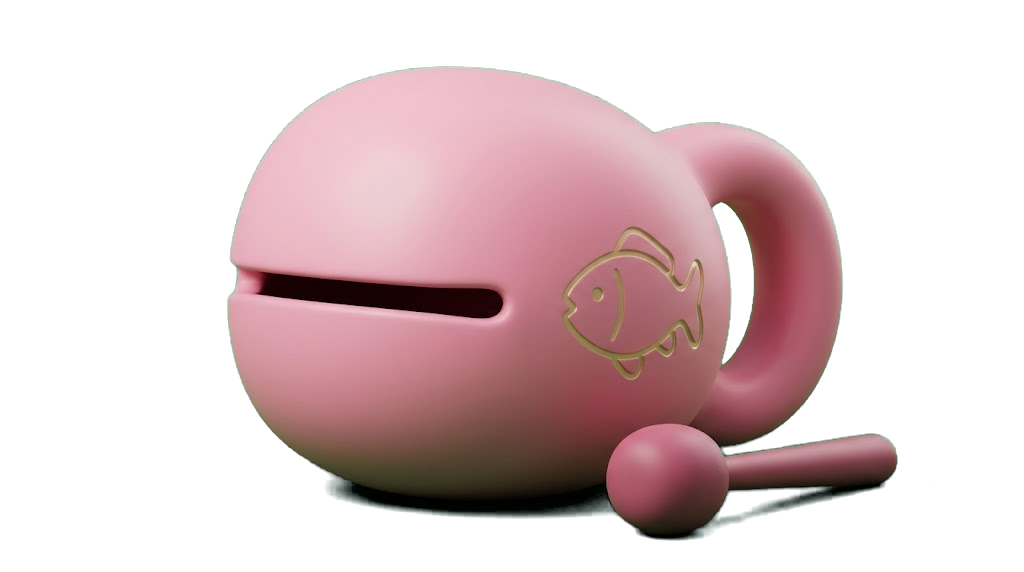
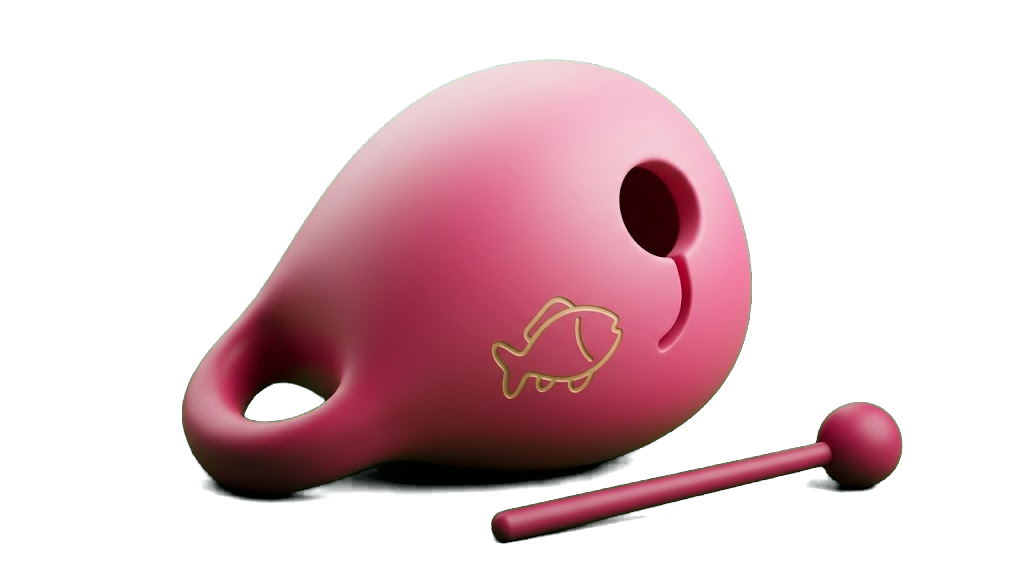
목탁을 사진처럼 다시 · 배경에 민트를 되돌린다
형: 「그런 까라로 더 귀엽고 찐한 핑크 만들어서 넣으라고」(동그란 구멍
     사진)  「시안에서 봤듯 민트도 섞어라 배경에」

■ 목탁
사진의 생김새로 다시 구웠다 — 통통한 물방울 몸, **동그란 소리 구멍**과
쉼표처럼 흘러내리는 짧은 홈, 왼쪽 아래에서 아래로 말리는 두툼한 고리,
찐한 장미 분홍(#E0609A). 긴 틈과 오른쪽 귀는 목탁이 아니었다.

■ 배경
한지 한 겹으로 덮고 민트를 껐더니, 형이 좋다던 시안의 바탕
(왼쪽 위 분홍 · 오른쪽 아래 민트가 번지는 흰 종이)이 사라졌다.
한지는 색이 아니라 **활자**였다 — 세로 話頭 · 큰 세리프 · 자간 벌린
한자 · 얇은 선 하나. 그것만 남기고 바탕은 되돌린다.
앱이 두 얼굴일 까닭도 같이 없어졌다.

diff --git a/src/app/hip.css b/src/app/hip.css
@@ -2112,25 +2112,17 @@ html[data-theme="light"] {
    이 규칙들은 전부 .hip-hanji 안에서만 산다. 공덕·내 도량·절로는
    손대지 않는다. */
 @media (max-width: 767px) {
+  /* 형: 「시안에서 봤듯 민트도 섞어라 배경에」.
+     한지 한 겹으로 덮고 민트를 껐더니, 형이 좋다던 그 시안의 배경
+     (왼쪽 위 분홍 · 오른쪽 아래 민트가 번지는 흰 종이)이 사라졌다.
+     **바탕은 다른 판과 같이 간다.** 한지는 색이 아니라 **활자**였다 —
+     세로 話頭 · 큰 세리프 · 자간 벌린 한자 · 얇은 선 하나.
+     그것만 남기고 바탕은 되돌린다. 앱이 두 얼굴일 까닭도 없어졌다. */
   .hip-hanji {
-    --hanji-bg: #f1eee6;
-    --hanji-ink: #1c1a17;
+    --hanji-ink: #17140f;
     --hanji-mute: #9a9287;
-    --hanji-rule: rgba(28, 26, 23, 0.13);
-    background: var(--hanji-bg);
+    --hanji-rule: rgba(26, 23, 20, 0.12);
   }
-  /* 분홍·민트 덩이는 한지에서 뜬다. 아주 옅은 홍조 하나만 남긴다 */
-  .hip-hanji .hip-bloom-a {
-    background:
-      radial-gradient(
-        46% 34% at 62% 22%,
-        rgba(222, 126, 161, 0.13),
-        transparent 70%
-      );
-    filter: blur(28px);
-    animation-duration: 38s;
-  }
-  .hip-hanji .hip-bloom-b { display: none; }
 
   /* 결 — 세로로 눕힌 話頭. 크고, 거의 안 보이게 */
   .hip-mark {
